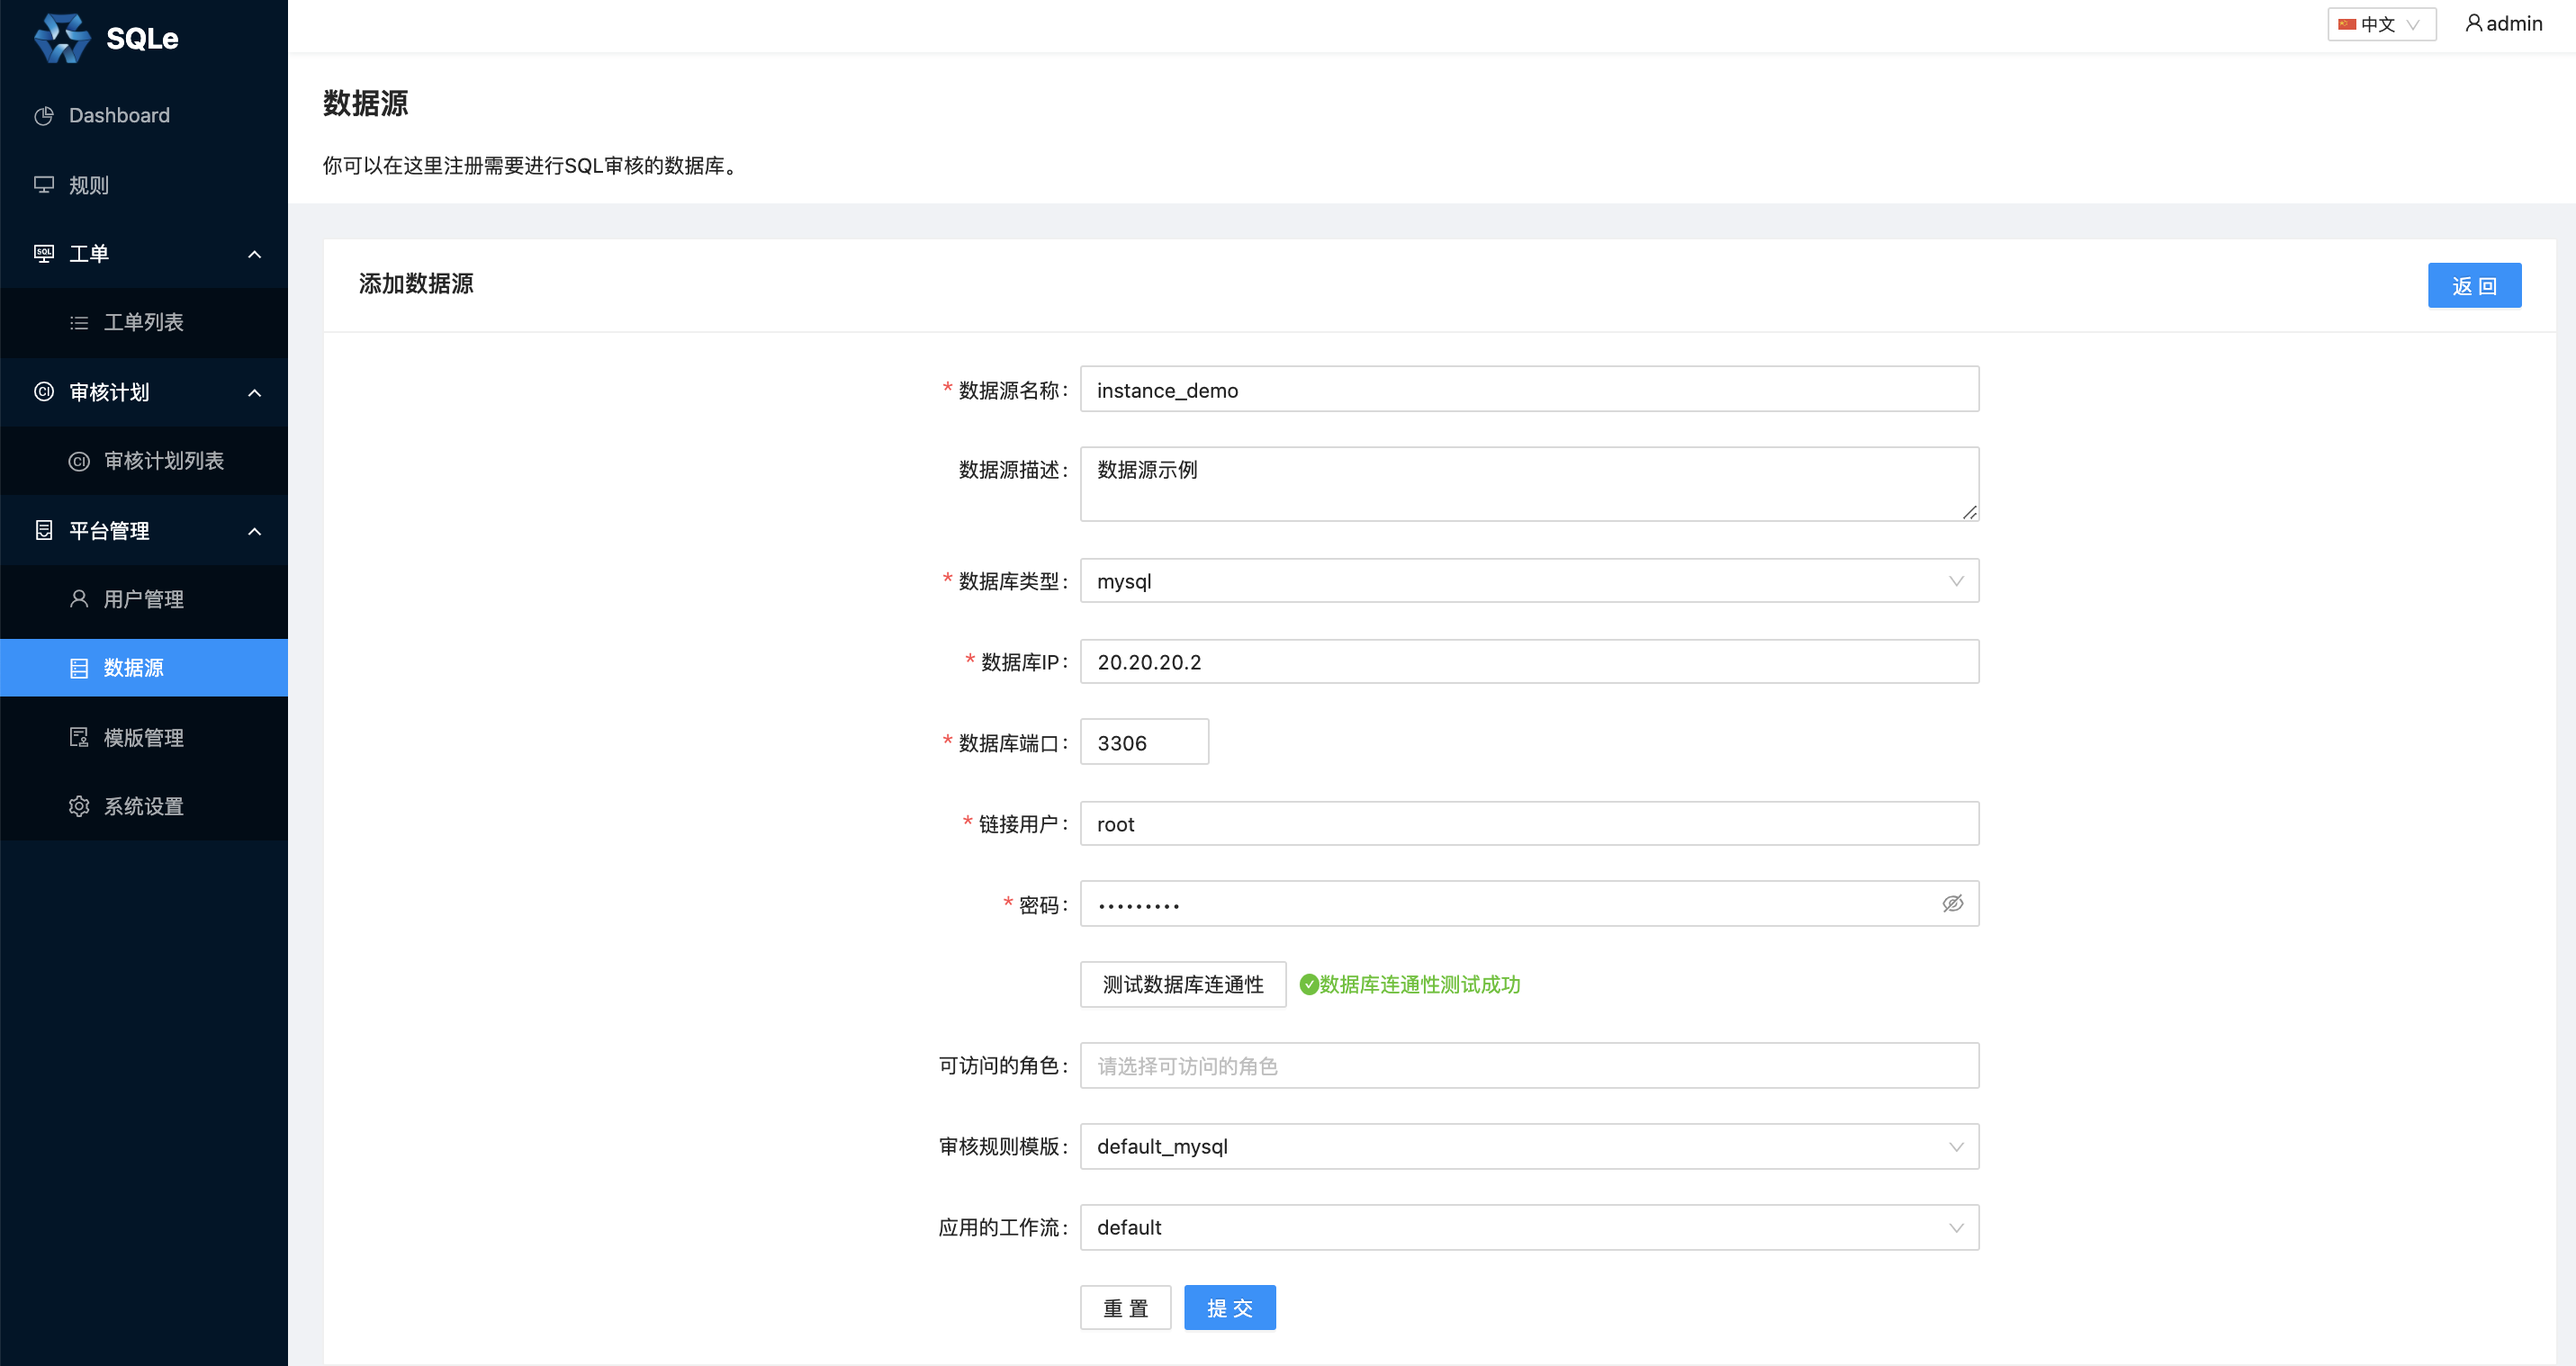
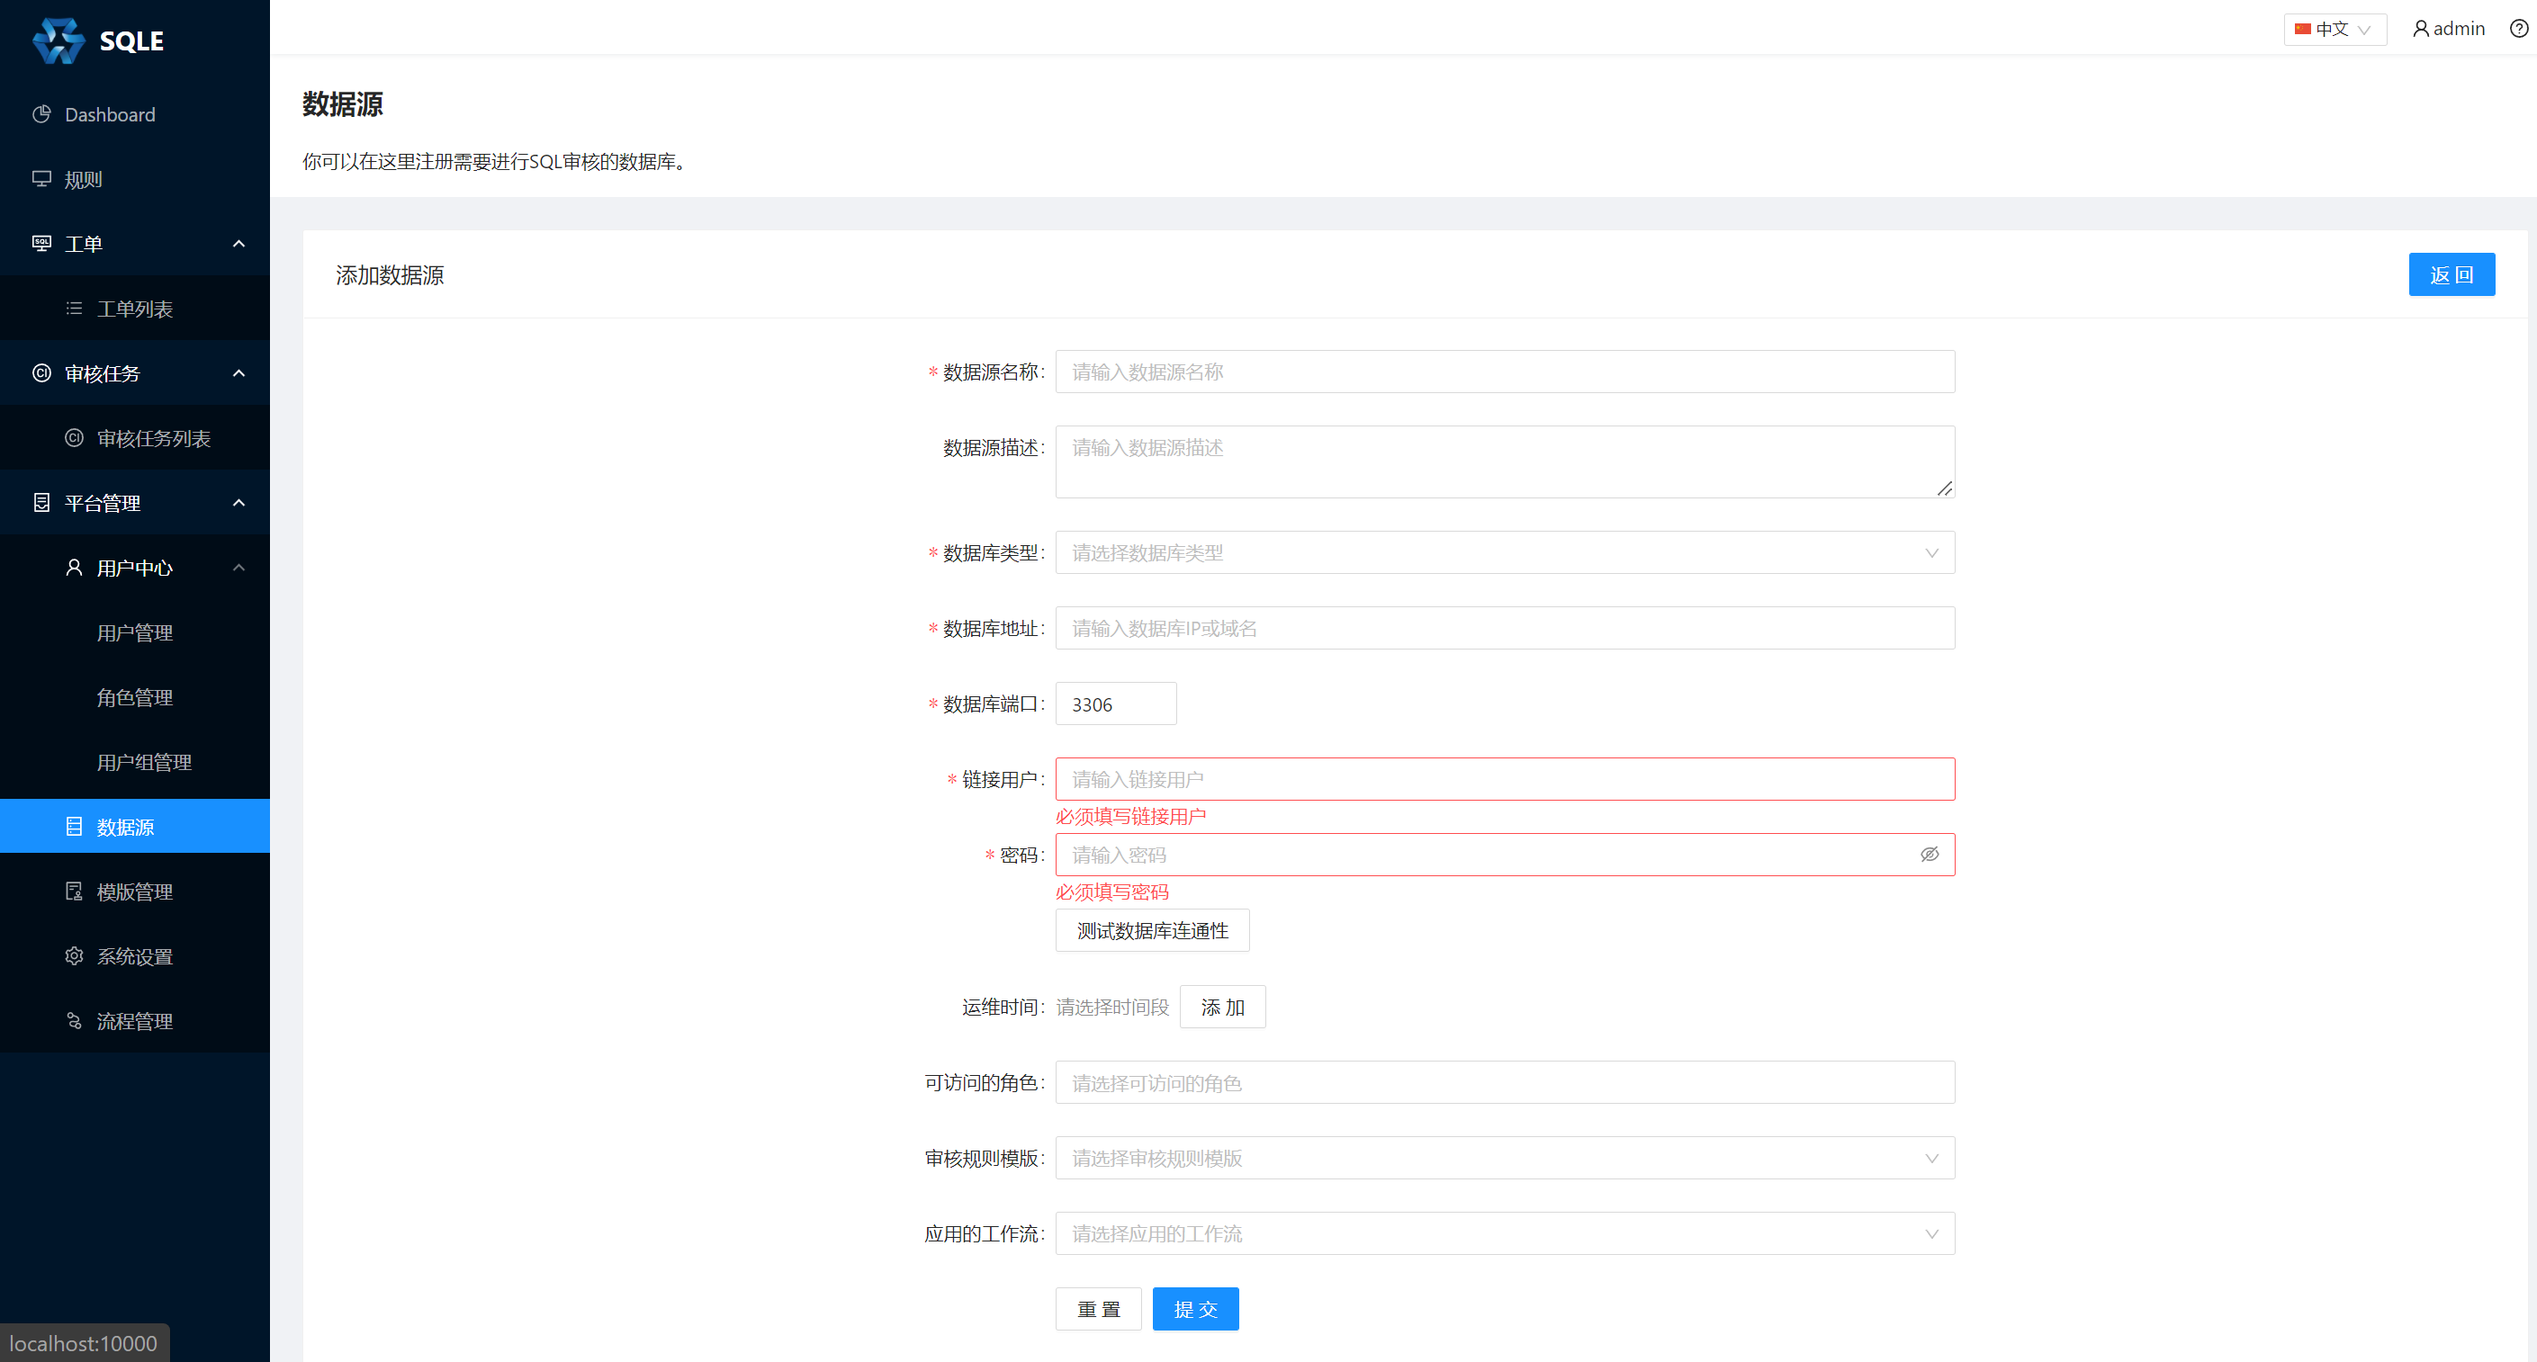
issue 394

diff --git a/3.modules/3.2_instance/instance_management.md b/3.modules/3.2_instance/instance_management.md
@@ -1,7 +1,7 @@
 # 数据源管理
 
-
-**数据源管理** 是 SQLE 提供的管理线上数据库的功能。一个数据源对应着一个数据库实例。在审核 SQL 时，如果指定了关联的数据源（动态审核），可以得到更加详细的审核结果。详情可参考[审核工单](../3.3_auditworkflow/overview.md)一章。
+**数据源管理** 是 SQLE 提供的管理线上数据库的功能。一个数据源对应着一个数据库实例。在审核 SQL
+时，如果指定了关联的数据源（动态审核），可以得到更加详细的审核结果。详情可参考[审核工单](../3.3_auditworkflow/overview.md)一章。
 
 ## 添加数据源
 
@@ -16,6 +16,7 @@
 * 连接用户：略
 * 密码：略
 * 测试数据库连通性：填写完必要的信息后，点击此按钮可以测试 SQLE 是否能访问该数据库。
+* 运维时间（选填）：如果配置了运维时间, 工单将只能在运维时间内上线(立即上线和定时上线都受此影响), 支持配置多个运维时间, 默认无运维时间,即不限制上线时间
 * 可访问角色（选填）：表示数据源可以被哪些角色访问。
 * 审核规则模板（选填）：表示数据源有哪些审核规则。
 * 应用的工作流（选填）：表示在数据源上创建的工单所应用的工作流。社区版只支持默认的工作流 default，详情见[工作流管理](../3.3_auditworkflow/workflow_management.md)。
@@ -26,7 +27,9 @@
 如果数据源数量过多，可以通过筛选功能快速的找到某类数据源。
 
 ## 修改数据源
+
 点击**数据源列表**页面的「编辑」按钮，可以修改指定数据源。**修改数据源**中的可修改项与**添加数据源**一致，可参考上面的一节的说明。
 
 ## 删除数据源
+
 点击**数据源列表**页面的「删除」按钮，可以删除指定数据源。
